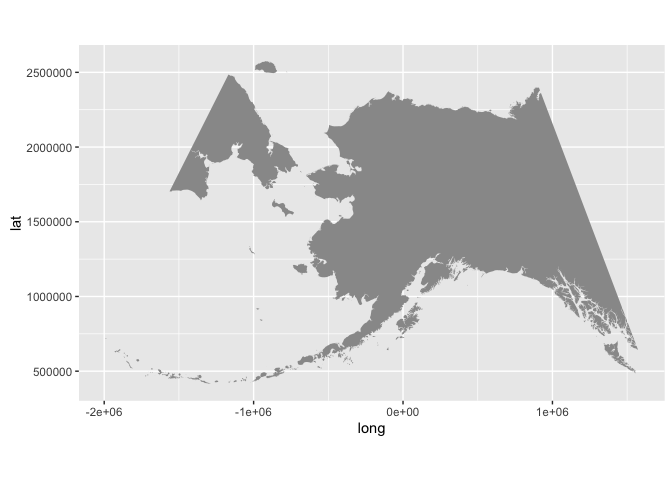
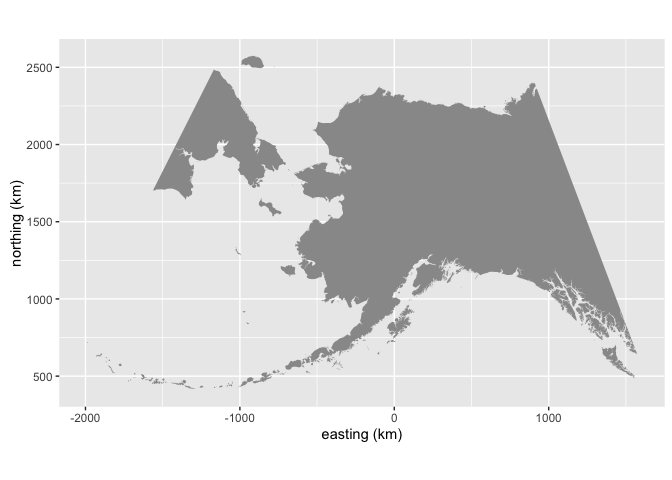
UPDATE README TO INCLUDE to_km()

diff --git a/README.md b/README.md
@@ -48,7 +48,10 @@ npac_plot <- ggplot() +
   geom_polygon(data = npac_base,
                aes(x = long,y = lat,group = group,id = id),
                fill = "grey60") +
-  coord_fixed()
+  coord_fixed() +
+  xlab("easting (km)") + ylab("northing (km)") +
+  scale_x_continuous(labels = nPacMaps::to_km()) +
+  scale_y_continuous(labels = nPacMaps::to_km())
 npac_plot
 ```
 
@@ -68,7 +71,10 @@ ak_plot <- ggplot() +
   geom_polygon(data = ak_base,
                aes(x = long,y = lat,group = group,id = id),
                fill = "grey60") +
-  coord_fixed()
+  coord_fixed() +
+  xlab("easting (km)") + ylab("northing (km)") +
+  scale_x_continuous(labels = nPacMaps::to_km()) +
+  scale_y_continuous(labels = nPacMaps::to_km())
 ak_plot
 ```
 
@@ -107,7 +113,7 @@ harborSeal <- sp::spTransform(harborSeal, CRS("+init=epsg:3338"))
 harborSeal <- as.data.frame(harborSeal)
 
 map_limits <- nPacMaps::ggExpansion(harborSeal,x = "longitude",y = "latitude",
-                                    x_fac = 1, y_fac = 1)
+                                    x_fac = 0.25, y_fac = 0.25)
 
 ak_base <- nPacMaps::alaska()
 #> Data are polygon data
@@ -119,7 +125,10 @@ ak_plot <- ggplot() +
                fill = "grey60") +
   geom_point(data = harborSeal,aes(x = longitude, y = latitude), 
              alpha = 0.1, color = 'blue') +
-  coord_fixed(xlim = map_limits$xlim, ylim = map_limits$ylim)
+  coord_fixed(xlim = map_limits$xlim, ylim = map_limits$ylim) +
+  xlab("easting (km)") + ylab("northing (km)") +
+  scale_x_continuous(labels = nPacMaps::to_km()) +
+  scale_y_continuous(labels = nPacMaps::to_km())
 ak_plot
 ```
 
